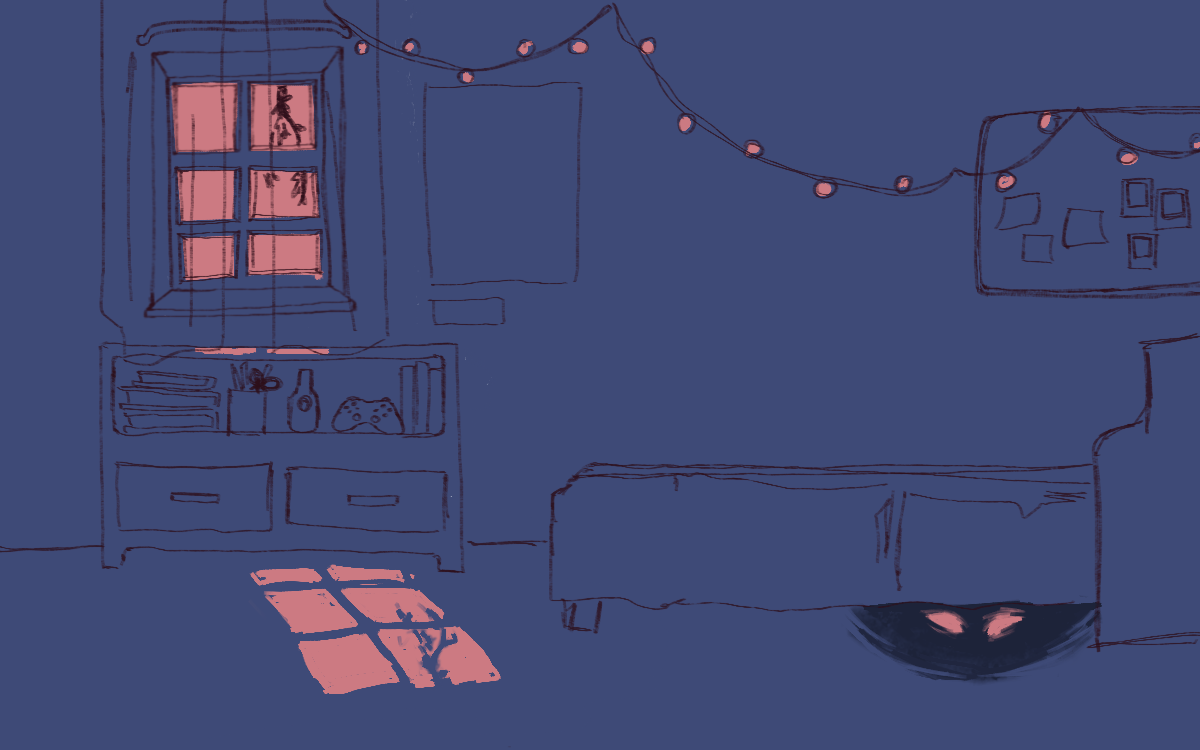
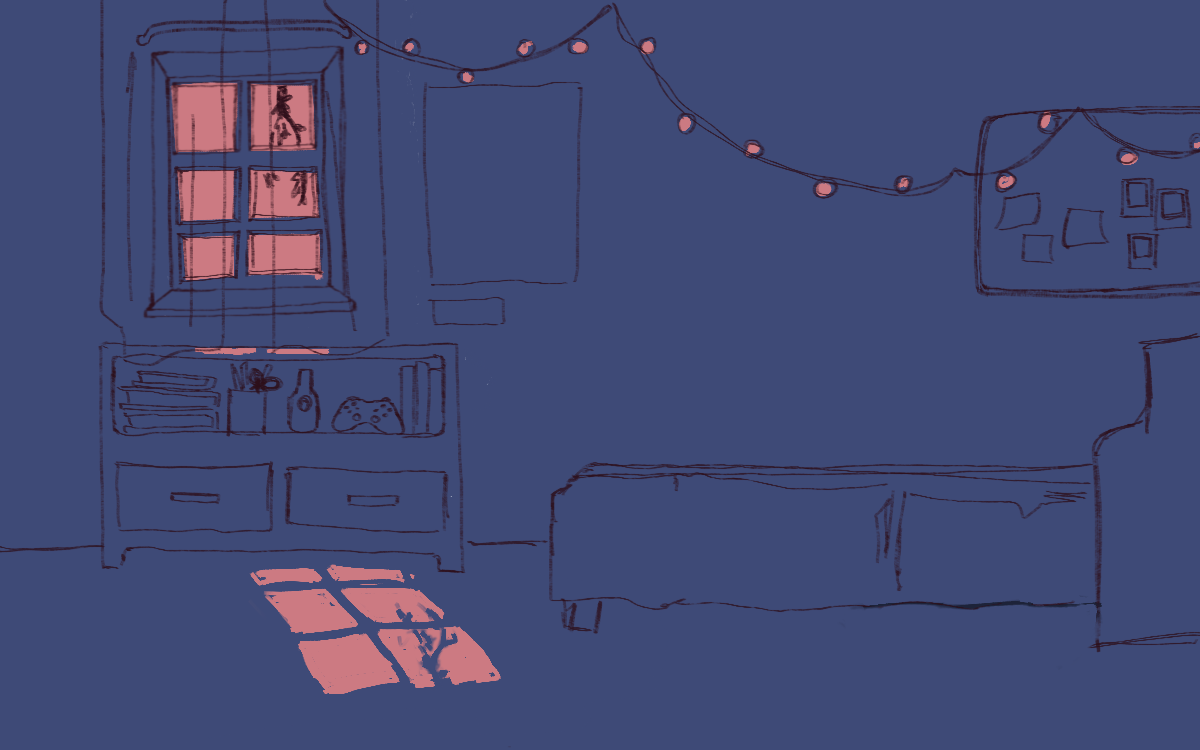
finished website not

Changed region(s): [[0.7092, 0.7973, 0.925, 0.92]]

diff --git a/styles.css b/styles.css
@@ -106,6 +106,17 @@ section#projects {
     flex-direction: column;
 }
 
+div#monster {
+    /* display: none; */
+    background-repeat: no-repeat;
+    background-size: contain;
+    transition: opacity 0.5s ease;
+}
+
+div#monster:hover {
+    opacity: 0;
+}
+
 /******** Alternative Styling ********/
 body.night {
     background-color: #3e4a77;
@@ -151,6 +162,15 @@ button:hover.night {
     color: #372A3A;
 }
 
+/* div#monster.night {
+    display: block;
+    position: absolute;
+    right: 5%;
+    bottom: 44%;
+} */
+
+
+
 @media only screen and (min-width: 900px) {
     
     /* change this later to be responsive <3 */
@@ -192,5 +212,16 @@ button:hover.night {
 
     div#container.night {
         background: none;
+    }
+
+    div#monster.night {
+        display: block;
+        position: absolute;
+        height: 100vh;
+        width: 100vw;
+        background-image: url('homeIMGS/monster.gif');
+        background-repeat: no-repeat;
+        background-position: center;
+        background-size: cover;
     }
   }

diff --git a/script.js b/script.js
@@ -9,6 +9,7 @@
     const links = document.querySelectorAll('a');
     const divContainer = document.querySelector('div#container');
     const body = document.querySelector('body');
+    const monster = document.querySelector('#monster');
     let mode = 'light';
 
     bttn.addEventListener('click', function(){
@@ -19,6 +20,7 @@
             body.className = 'night';
             bttn.className = 'night';
             bttn.innerHTML = 'on';
+            monster.className = 'night';
             for (const section of sections) {
                 section.className = 'night';
             }
@@ -37,6 +39,7 @@
             body.removeAttribute('class');
             bttn.removeAttribute('class');
             bttn.innerHTML = 'off';
+            monster.removeAttribute('class');
             for (const section of sections) {
                 section.removeAttribute('class');
             }

diff --git a/index.html b/index.html
@@ -21,12 +21,16 @@
 </head>
 
 <body>
+    <div id="monster">
+        <!-- <img src="homeIMGS/monster.gif" alt="GIF of monster under the bed"> -->
+    </div>
     <div id="container">
         <header>
             <h1>Joanah Martin</h1>
             <h2>DES 157B - Interactive Media III - Spring 2025</h2>
         </header>
     
+        
 
         <main>
             <section id="projects">
